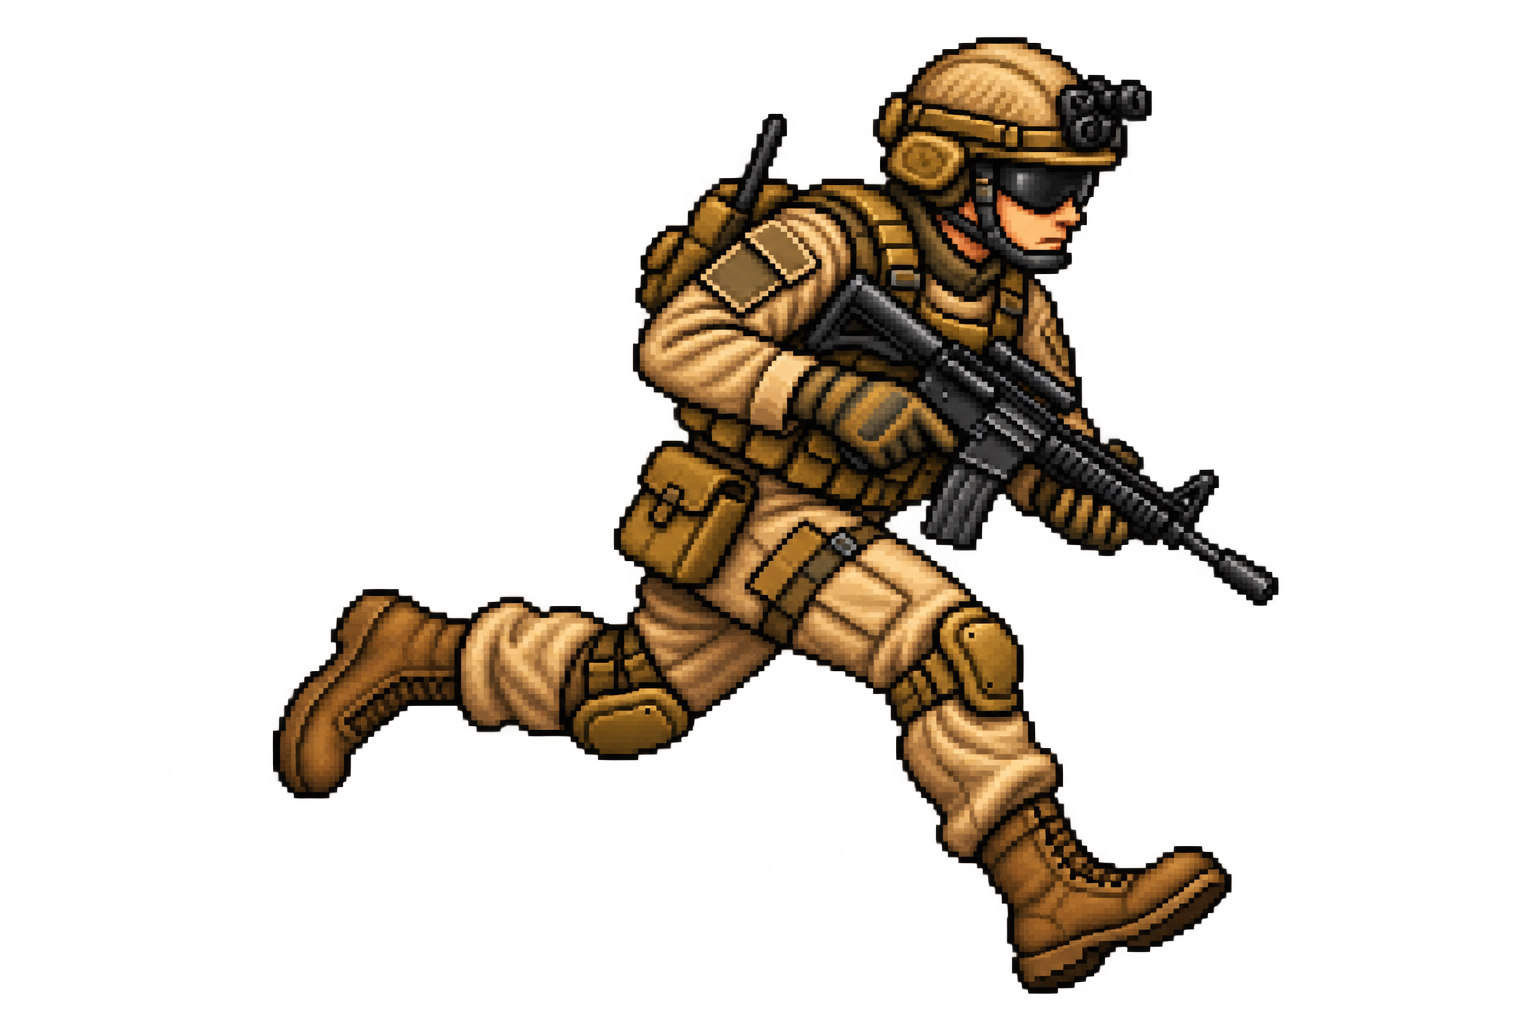
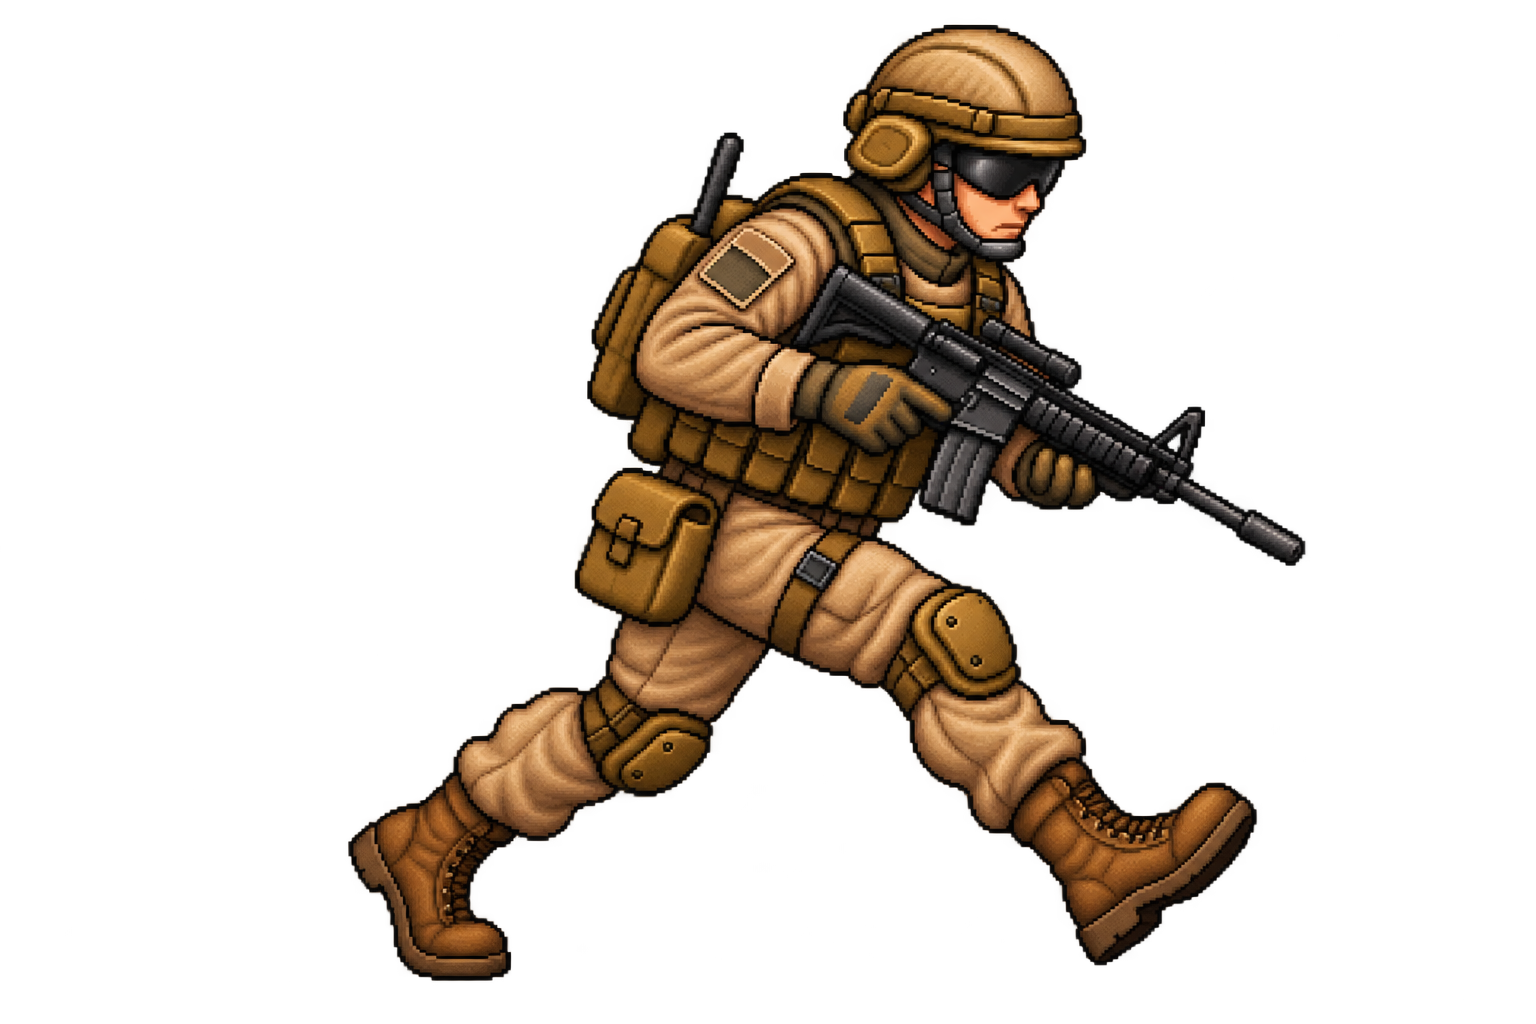
changes grenade animation. adds new image of soldier running

Changed region(s): [[0.1562, 0.0, 0.8438, 0.9688]]

diff --git a/game.js b/game.js
@@ -2287,12 +2287,32 @@ function getClampedGrenadeTarget(targetX, targetY) {
 }
 
 function explodeGrenade(grenade) {
+  const particles = [];
+  const particleCount = 34;
+  for (let index = 0; index < particleCount; index += 1) {
+    const angle = Math.random() * Math.PI * 2;
+    const distanceScale = 0.45 + Math.random() * 0.75;
+    particles.push({
+      angle,
+      targetRadius: SOLDIER_GRENADE_RADIUS * distanceScale,
+      size: 1.4 + Math.random() * 2.8,
+      drift: (Math.random() - 0.5) * 20,
+      speedScale: 0.8 + Math.random() * 0.4,
+      color: Math.random() > 0.5
+        ? "255, 220, 110"
+        : Math.random() > 0.45
+          ? "255, 182, 68"
+          : "255, 245, 185",
+    });
+  }
+
   grenadeShockwaves.push({
     x: grenade.targetX,
     y: grenade.targetY,
     radius: SOLDIER_GRENADE_RADIUS,
-    ttl: 0.42,
-    maxTtl: 0.42,
+    ttl: 0.22,
+    maxTtl: 0.22,
+    particles,
   });
   damageEnemiesInRadiusFromPoint(grenade.targetX, grenade.targetY, SOLDIER_GRENADE_DAMAGE + player.weaponBonusDamage, SOLDIER_GRENADE_RADIUS);
   destroyEnvironmentInRadius(grenade.targetX, grenade.targetY, SOLDIER_GRENADE_RADIUS);
@@ -4738,17 +4758,25 @@ function drawHeroGrenades() {
 function drawGrenadeShockwaves() {
   for (const shockwave of grenadeShockwaves) {
     const progress = 1 - shockwave.ttl / shockwave.maxTtl;
-    const radius = shockwave.radius * (0.35 + progress * 0.65);
     const alpha = 1 - progress;
+    const coreRadius = 8 + progress * 18;
+
     ctx.beginPath();
-    ctx.fillStyle = `rgba(255, 189, 92, ${alpha * 0.18})`;
-    ctx.arc(shockwave.x, shockwave.y, radius, 0, Math.PI * 2);
+    ctx.fillStyle = `rgba(255, 208, 116, ${alpha * 0.42})`;
+    ctx.arc(shockwave.x, shockwave.y, coreRadius, 0, Math.PI * 2);
     ctx.fill();
-    ctx.beginPath();
-    ctx.strokeStyle = `rgba(255, 232, 180, ${alpha * 0.9})`;
-    ctx.lineWidth = 7 - progress * 3;
-    ctx.arc(shockwave.x, shockwave.y, radius, 0, Math.PI * 2);
-    ctx.stroke();
+
+    for (const particle of shockwave.particles || []) {
+      const traveled = particle.targetRadius * Math.min(1, progress * 1.45) * particle.speedScale;
+      const spreadX = Math.cos(particle.angle) * traveled + Math.cos(particle.angle + Math.PI / 2) * particle.drift * progress;
+      const spreadY = Math.sin(particle.angle) * traveled + Math.sin(particle.angle + Math.PI / 2) * particle.drift * progress;
+      const size = Math.max(0.8, particle.size * (1 - progress * 0.45));
+
+      ctx.beginPath();
+      ctx.fillStyle = `rgba(${particle.color}, ${alpha})`;
+      ctx.arc(shockwave.x + spreadX, shockwave.y + spreadY, size, 0, Math.PI * 2);
+      ctx.fill();
+    }
   }
 }
 
